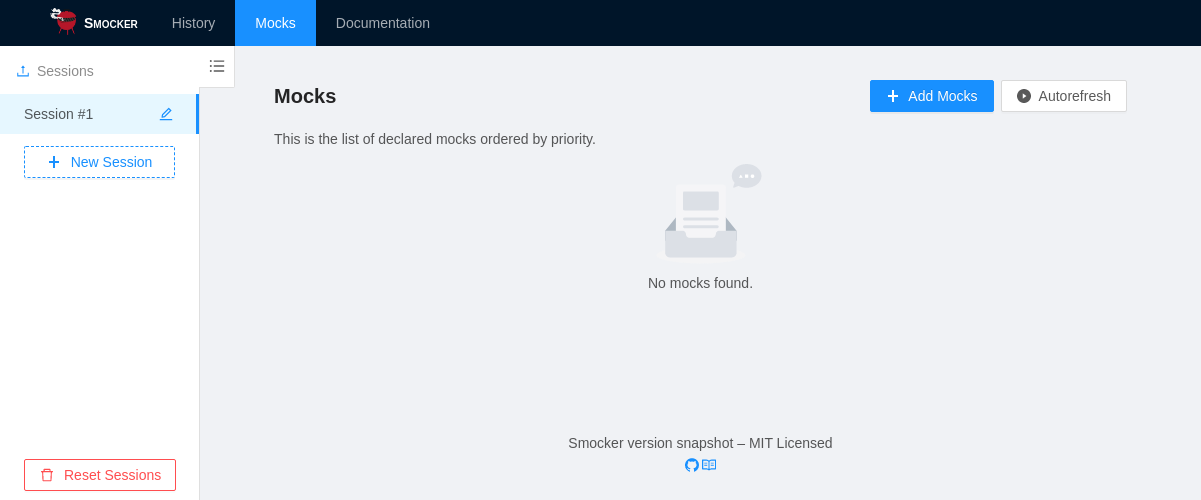
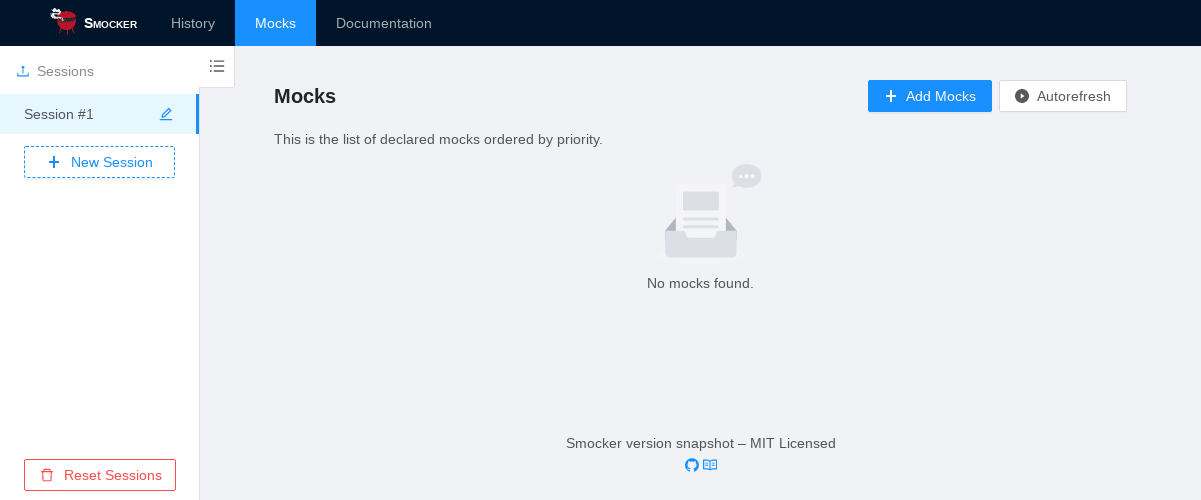
fix: after review + regen screenshots

diff --git a/docs/refresh-screenshots.js b/docs/refresh-screenshots.js
@@ -9,7 +9,7 @@ const smockerServerHost = "http://localhost:8080";
 
 const historyPagePath = "/pages/history";
 const mocksPagePath = "/pages/mocks";
-const resetPath = "reset";
+const resetPath = "/reset";
 
 const defaultViewPort = { width: 1400, height: 700 };
 const zoomedViewPort = { width: 1201, height: 500 };
